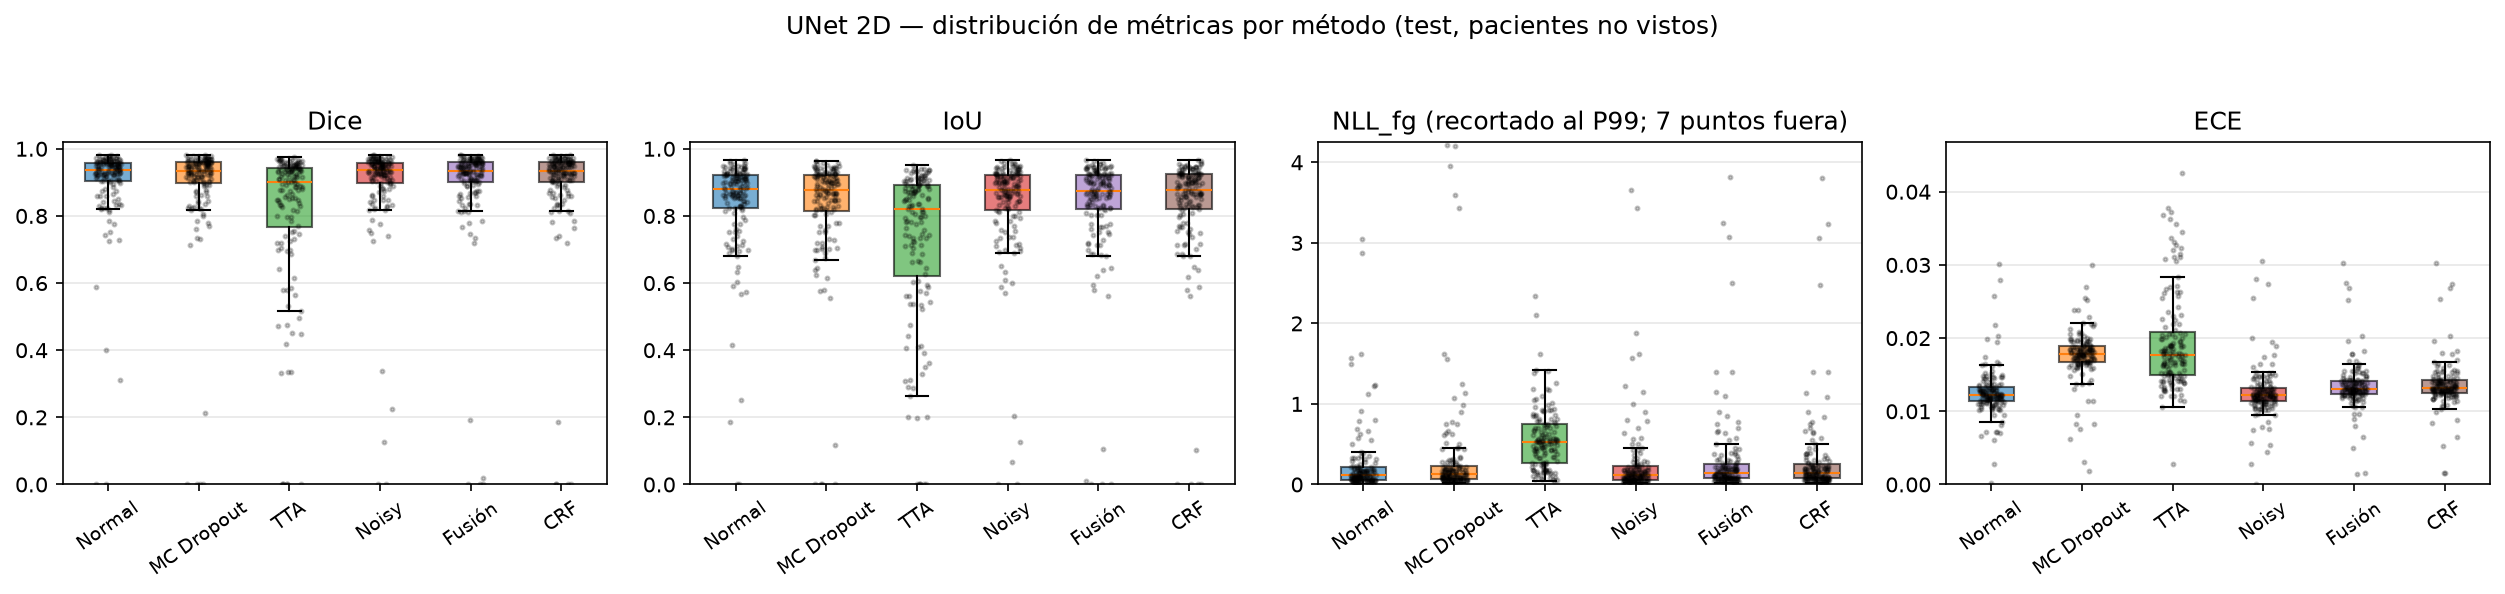
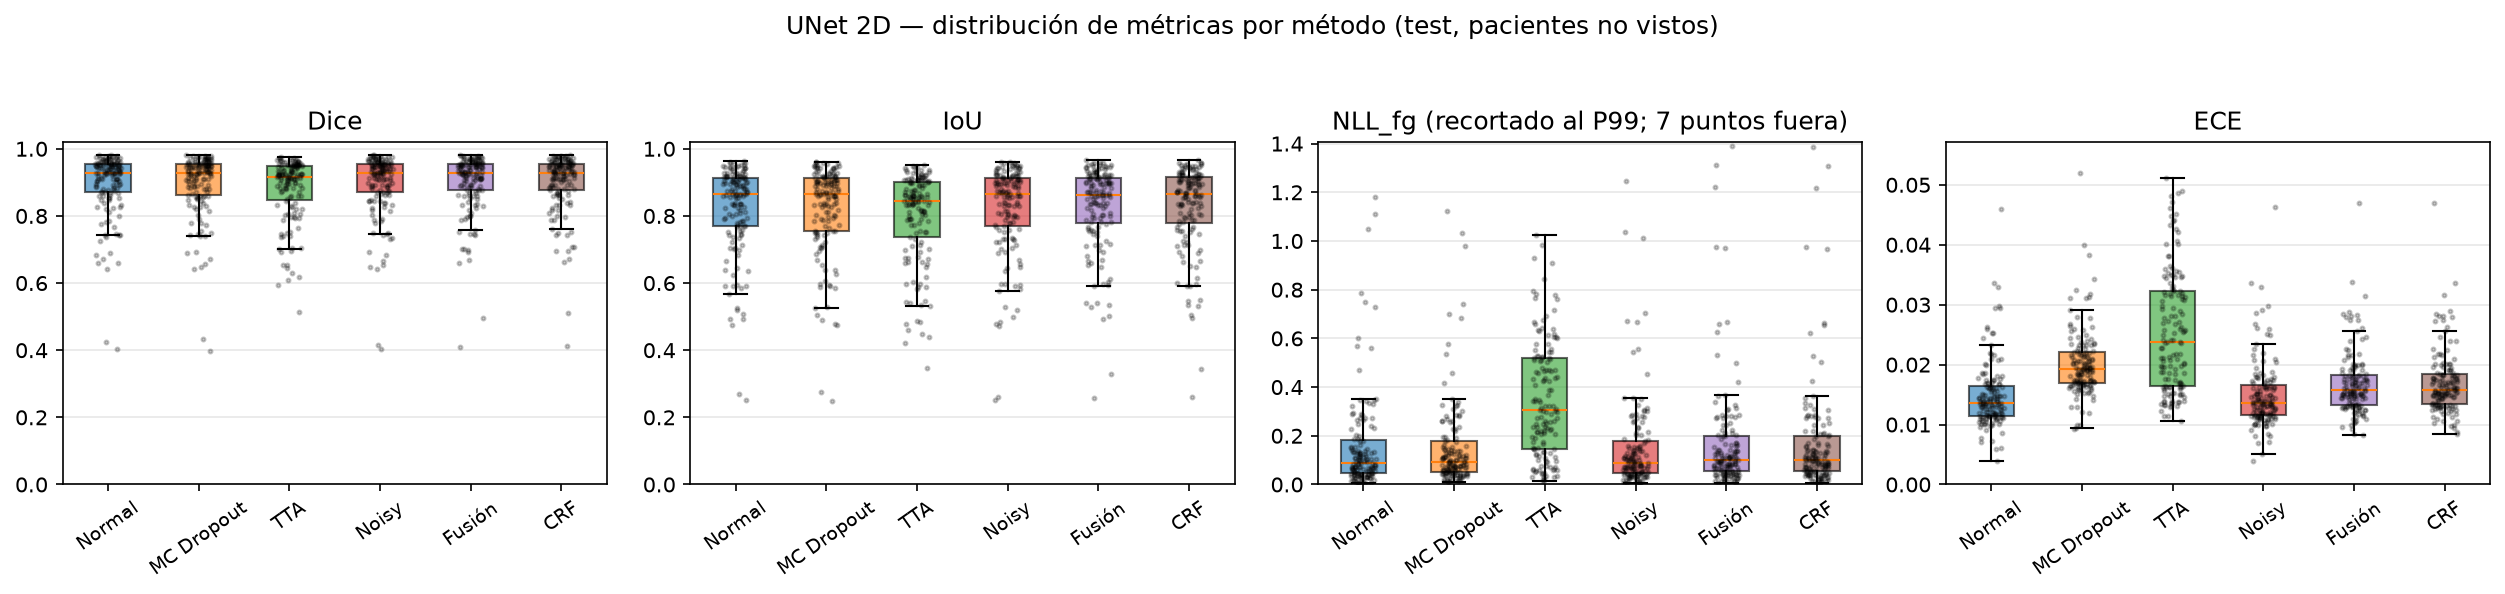
README: enlaces al repo de GitHub, resultados UNet en --train-mode y sin plan
- Sustituye los paths locales (~/Desktop/Codigo_TFM) por enlaces a GitHub
  (Fyrthuz/Codigo_TFM_RustPort y Fyrthuz/Codigo_TFM).
- La tabla de resultados del UNet refleja ahora --train-mode (reproduce los
  CSVs originales bit a bit) y las figuras se regeneraron en consecuencia.
- Elimina PLAN_rust_port.md.

diff --git a/README.md b/README.md
@@ -3,29 +3,31 @@
 [![Rust](https://img.shields.io/badge/rust-1.99+-orange.svg)](https://www.rust-lang.org/)
 [![tch-rs](https://img.shields.io/badge/tch--rs-0.26-red.svg)](https://github.com/LaurentMazare/tch-rs)
 [![libtorch](https://img.shields.io/badge/libtorch-2.13.0+cu130-green.svg)](https://pytorch.org)
+[![Repo](https://img.shields.io/badge/GitHub-Fyrthuz%2FCodigo__TFM__RustPort-blue.svg)](https://github.com/Fyrthuz/Codigo_TFM_RustPort)
 
 Reimplementación completa en **Rust** (crate `tch-rs` sobre libtorch) del TFM
 original en Python: *segmentation of brain MRI (LGG) with uncertainty
 quantification*, comparando **UNet 2D** y **UniVerSeg few-shot** con métodos de
 incertidumbre (MC Dropout, TTA, Noisy, Fusion, CRF) y split a nivel de paciente.
 
-La versión Python original vive en `~/Desktop/Codigo_TFM` y no se modifica; este
-repositorio es independiente. Véase `PLAN_rust_port.md` para las fases del port.
+La versión Python original vive en
+[`Fyrthuz/Codigo_TFM`](https://github.com/Fyrthuz/Codigo_TFM) y no se modifica;
+este repositorio es independiente.
 
 ---
 
 ## Resultados (Rust, RTX 5080, CUDA)
 
-### UNet 2D — 144 imágenes de test
+### UNet 2D — 144 imágenes de test (`--train-mode`, reproduce el original)
 
 | Método | IoU | Dice | NLL | NLL_fg | ECE |
 |--------|----:|-----:|----:|-------:|----:|
-| normal | 0.834 | 0.898 | 0.030 | 0.311 | 0.013 |
-| mc_dropout | 0.825 | 0.888 | 0.036 | 0.350 | 0.018 |
-| tta | 0.722 | 0.808 | 0.034 | 0.586 | 0.019 |
-| noisy | 0.832 | 0.895 | 0.030 | 0.323 | 0.013 |
-| fusion | 0.829 | 0.890 | 0.030 | 0.332 | 0.013 |
-| crf | 0.829 | 0.890 | 0.030 | 0.331 | 0.014 |
+| normal | 0.819 | 0.894 | 0.035 | 0.177 | 0.015 |
+| mc_dropout | 0.819 | 0.894 | 0.039 | 0.173 | 0.020 |
+| tta | 0.797 | 0.880 | 0.041 | 0.354 | 0.025 |
+| noisy | 0.820 | 0.894 | 0.034 | 0.171 | 0.015 |
+| fusion | 0.825 | 0.898 | 0.034 | 0.172 | 0.017 |
+| crf | 0.826 | 0.899 | 0.034 | 0.171 | 0.017 |
 
 ### UniVerSeg (canal G T1c, contexto 64)
 
@@ -79,8 +81,8 @@ cargo build --release -p app --bins
 # Estadística a nivel de paciente (bootstrap + Wilcoxon exacto)
 ./scripts/run.sh ./target/release/statistics --pipeline all
 
-# Figuras (docs/*.png, matplotlib desde el .venv original)
-../Codigo_TFM/.venv/bin/python scripts/make_figures.py \
+# Figuras (docs/*.png, matplotlib; requiere el .venv del repo Python original)
+python scripts/make_figures.py \
     --results-dir ./results --foundation-results-dir ./results_foundation_universeg --out-dir ./docs
 
 # Entrenar UNet (opcional; pesos ya incluidos en unet_model.safetensors)
@@ -220,7 +222,7 @@ cargo test --workspace    # 61 tests (57 core + 4 modelos numéricos vs TorchScr
 
 - Rust ≥1.99, libtorch 2.13.0+cu130 (vendored en `./libtorch`) para `crates/app`
 - CUDA ≥12.8 (GPU Blackwell sm_120); `crates/core` compila y testea sin CUDA
-- La versión Python original (solo para exportar pesos) usa torch ≥2.5 en `~/Desktop/Codigo_TFM`
+- La versión Python original (solo para exportar pesos y generar figuras) usa torch ≥2.5; ver [`Fyrthuz/Codigo_TFM`](https://github.com/Fyrthuz/Codigo_TFM)
 
 ## Citation
 
